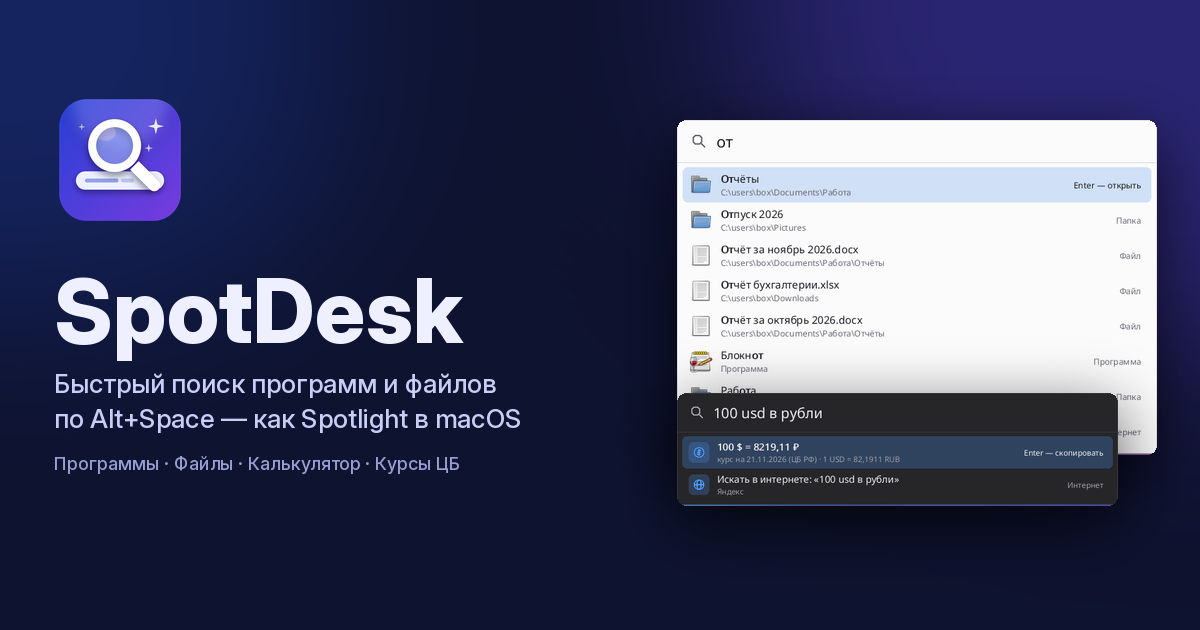
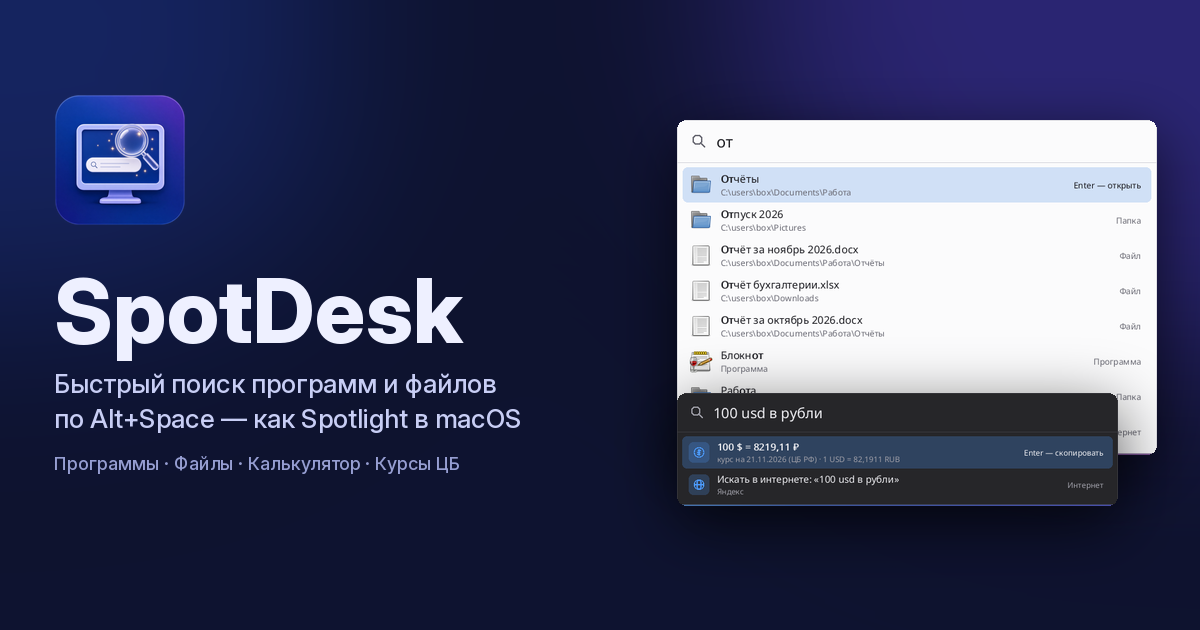
SpotDesk 1.0.1: новый логотип, карточки других программ и заметки к выпуску
Значок в общем стиле семьи Nikolini (монитор, строка поиска и лупа) на сайте, в favicon и OG. «Другие программы» — HubDesk первым.

Changed region(s): [[0.0308, 0.1508, 0.1542, 0.3619]]

diff --git a/docs/index.html b/docs/index.html
@@ -87,7 +87,7 @@ footer{padding:36px 0 50px;color:var(--sub);font-size:14.5px;text-align:center;b
         <svg viewBox="0 0 24 24" fill="none" stroke="currentColor" stroke-width="2.2" stroke-linecap="round" stroke-linejoin="round"><path d="M12 3v12m0 0-5-5m5 5 5-5M4 19h16"/></svg>
         Скачать SpotDesk
       </a>
-      <p class="meta"><span class="dlinfo">ZIP · около&nbsp;0,4&nbsp;МБ</span> · Windows 10 и 11 (64-бит) · <a href="https://github.com/NikoliniOFF/SpotDesk/releases">все версии</a></p>
+      <p class="meta"><span class="dlinfo">ZIP · около&nbsp;0,6&nbsp;МБ</span> · Windows 10 и 11 (64-бит) · <a href="https://github.com/NikoliniOFF/SpotDesk/releases">все версии</a></p>
       <p class="dlcount" hidden></p>
     </div>
     <div class="stack">
@@ -112,7 +112,7 @@ footer{padding:36px 0 50px;color:var(--sub);font-size:14.5px;text-align:center;b
   </section>
 
   <section id="shots">
-    <h2>Как это выглядит</h2><p class="sub">Настоящие снимки SpotDesk 1.0.0</p>
+    <h2>Как это выглядит</h2><p class="sub">Настоящие снимки SpotDesk 1.0.1</p>
     <div class="gal">
       <figure><img src="assets/media/bar-dark.jpg" alt="Тёмная тема: папки, файлы и программы" width="760" height="560" loading="lazy"><figcaption>Программы, папки и файлы в одном списке</figcaption></figure>
       <figure><img src="assets/media/files.jpg" alt="Поиск файлов" width="760" height="380" loading="lazy"><figcaption>Файлы — по имени, как в Everything</figcaption></figure>
@@ -153,7 +153,7 @@ footer{padding:36px 0 50px;color:var(--sub);font-size:14.5px;text-align:center;b
     <details><summary>Alt+Space не срабатывает</summary><p>Сочетание может быть занято PowerToys Run или другой программой. Откройте настройки и выберите другое, например Ctrl+Space или Win+Space.</p></details>
     <details><summary>Не будет ли тормозить компьютер?</summary><p>Нет. В простое SpotDesk ничего не опрашивает, индекс строится в фоне с низким приоритетом и обновляется по уведомлениям Windows.</p></details>
     <details><summary>Почему не находятся файлы с диска D:?</summary><p>По умолчанию индексируются папки пользователя. Добавьте нужные папки во вкладке «Файлы» или включите «Быстрый индекс NTFS» (нужен запуск от имени администратора).</p></details>
-    <details><summary>Программа что-нибудь собирает или отправляет?</summary><p>Нет. Индекс и история остаются на вашем компьютере. В интернет — только проверка обновлений на GitHub и курсы ЦБ РФ, когда вы пересчитываете валюту.</p></details>
+    <details><summary>Программа что-нибудь собирает или отправляет?</summary><p>Нет. Индекс и история остаются на вашем компьютере. В интернет — только проверка обновлений и списка программ Nikolini на GitHub и курсы ЦБ РФ, когда вы пересчитываете валюту.</p></details>
   </section>
 
   <section id="apps">

diff --git a/release-notes/v1.0.1.md b/release-notes/v1.0.1.md
@@ -1,0 +1,23 @@
+## 🔎 SpotDesk для Windows 1.0.1
+
+**Скачать:** `SpotDesk-1.0.1-win64.zip` ниже (или постоянная ссылка `SpotDesk-win64.zip`). Распакуйте и запустите `SpotDesk.exe`. Если SpotDesk уже установлен, он сам предложит обновиться.
+
+### Что нового
+- Новый значок в общем стиле программ Nikolini: монитор, строка поиска и стеклянная лупа
+- «О программе» → «Другие программы от Nikolini»: HubDesk первым, добавлены DockDesk и IslandDesk
+- Список программ и их значки подтягиваются с сайтов сами — новые программы появятся без обновления SpotDesk
+- Без интернета — встроенный список и значки
+- Проверка обновлений больше не обращается к api.github.com (чтобы не упираться в лимит запросов)
+
+### Подробнее
+- Список программ загружается только когда открыта вкладка «О программе» (не чаще раза в 12 часов) и вместе с проверкой обновлений; хранится в `%LOCALAPPDATA%\SpotDesk`. В простое SpotDesk по-прежнему ничего не делает.
+- Новые версии: адрес последнего выпуска берётся из редиректа GitHub (`/releases/latest`), файлы — с `/releases/download/v…`. При сбое сети или ответе 403/429 программа молча попробует позже.
+- Поиск, калькулятор, курсы валют и настройки — без изменений.
+
+### Если Windows предупреждает
+SmartScreen может показать «Система Windows защитила ваш компьютер» — нажмите «Подробнее» → «Выполнить в любом случае».
+
+**Требования:** Windows 10 или 11, 64-бит.
+
+<!-- publish_release.sh сам допишет строку «SHA256 (SpotDesk-1.0.1-win64.zip): …» — её читает автообновление. -->
+<!-- Первые пункты «Что нового» показываются в окне обновления (до 6 пунктов). -->
